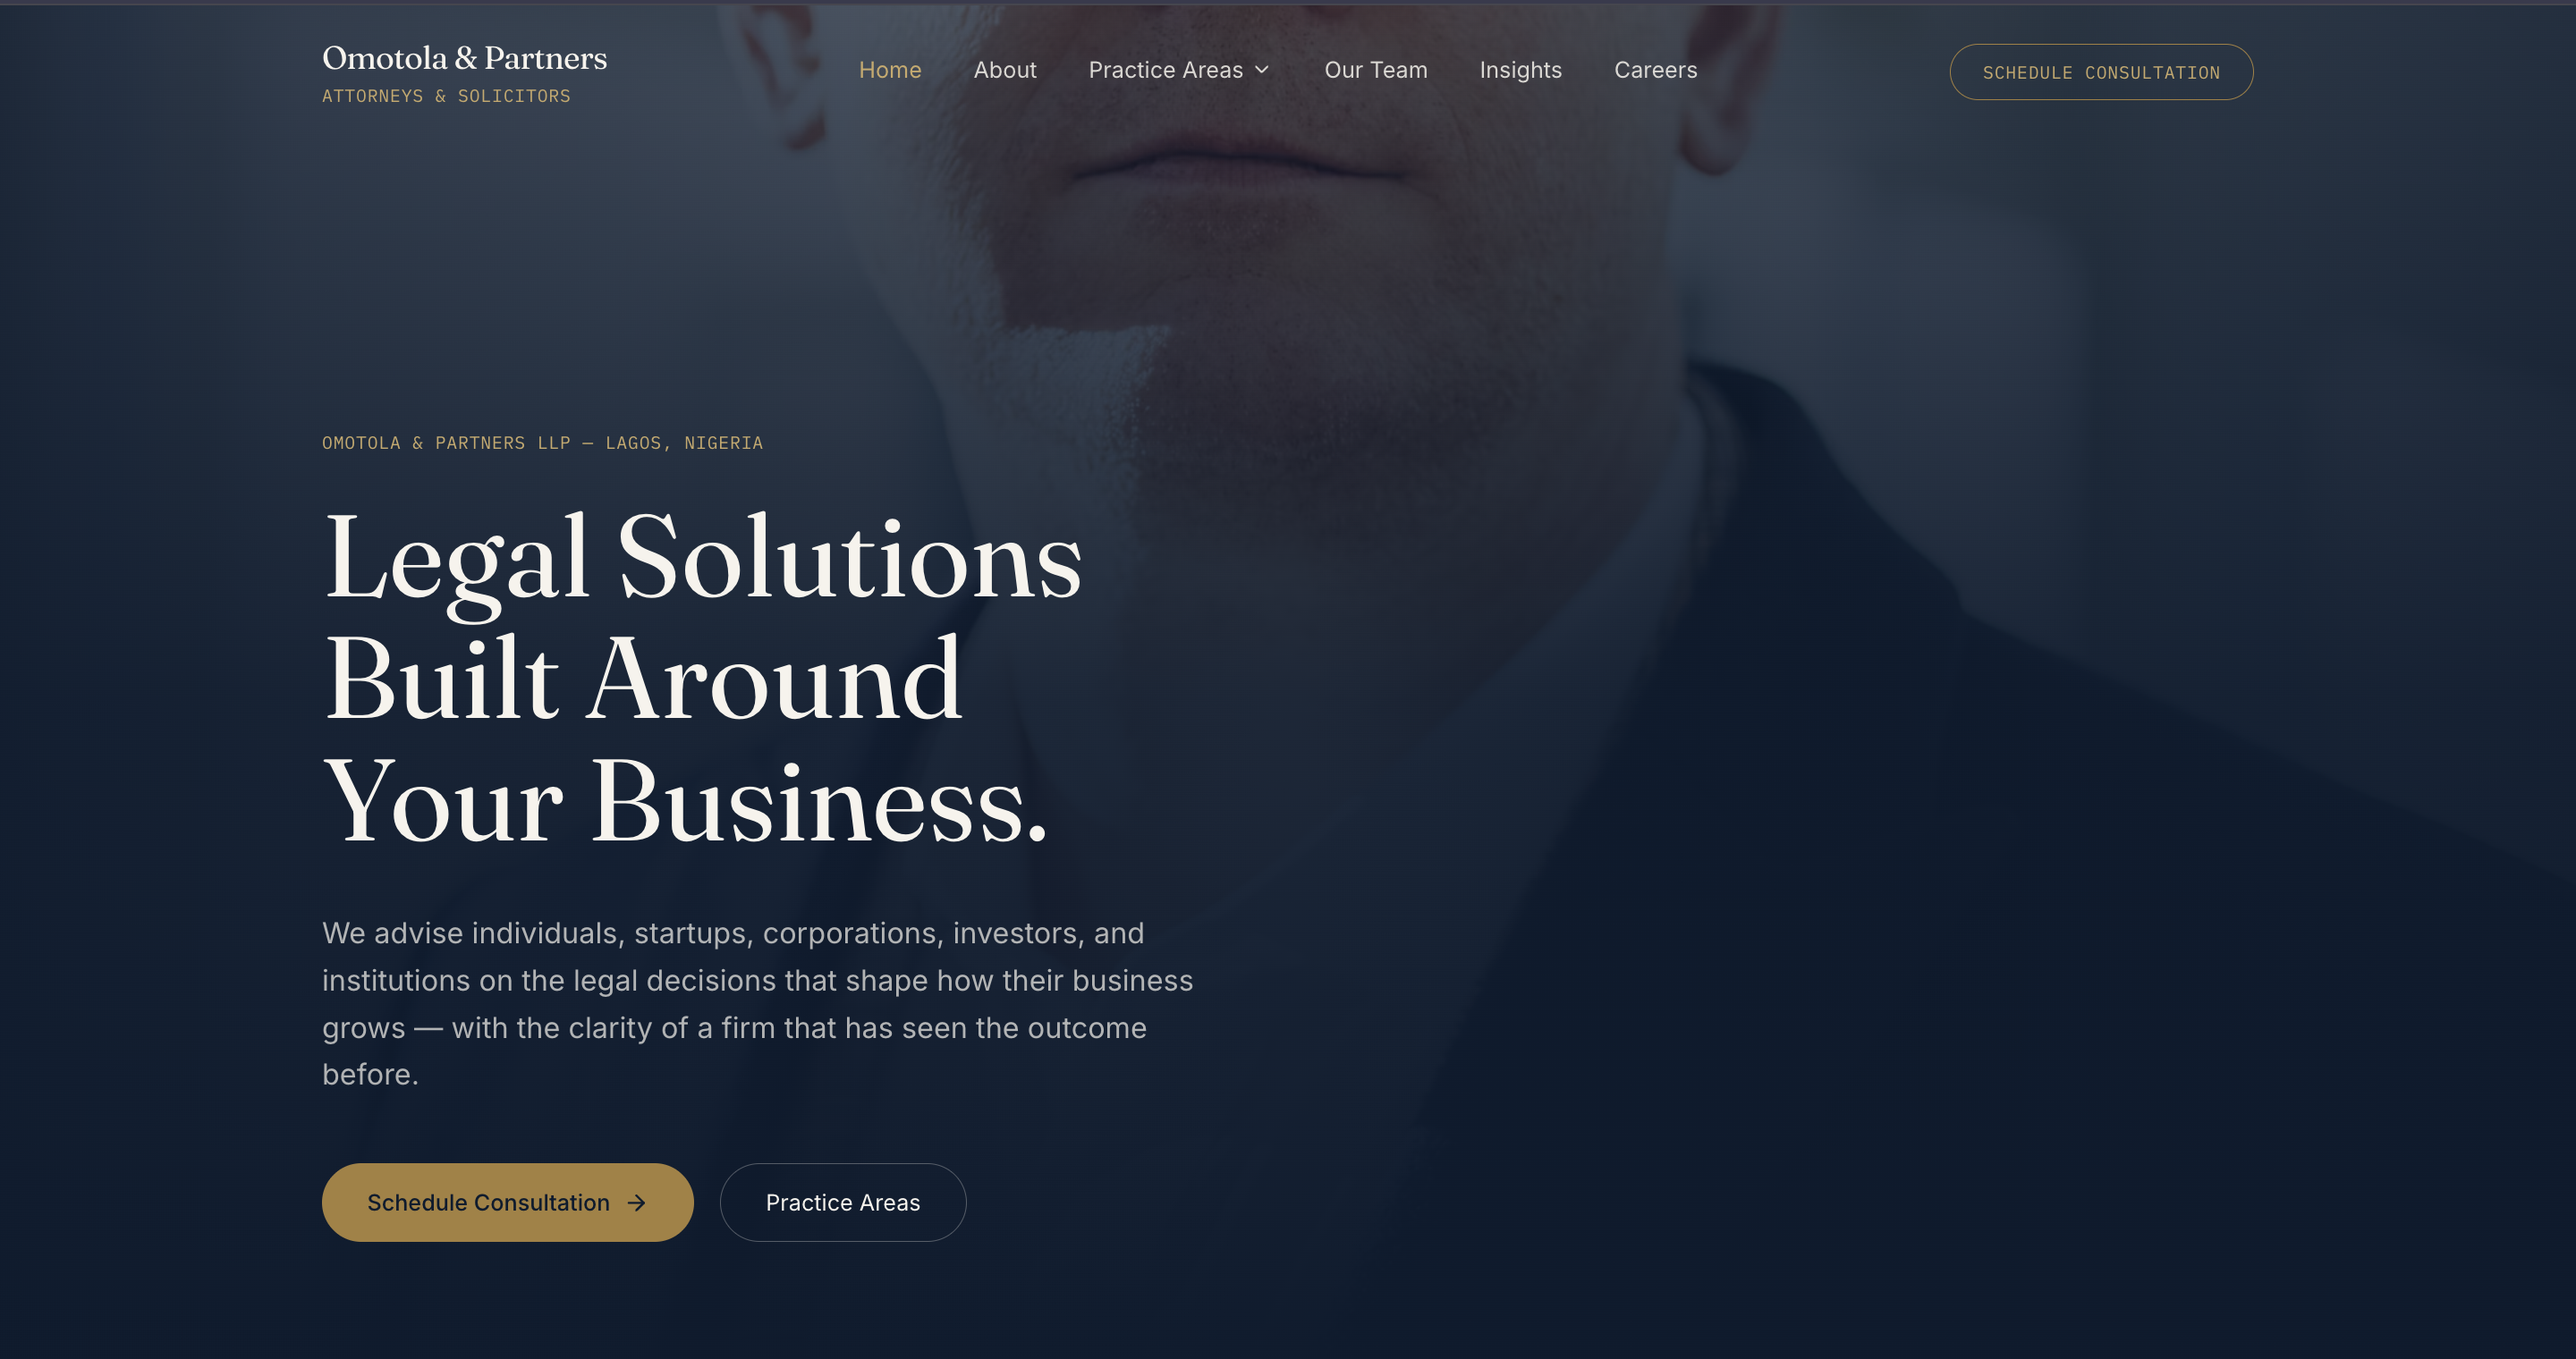
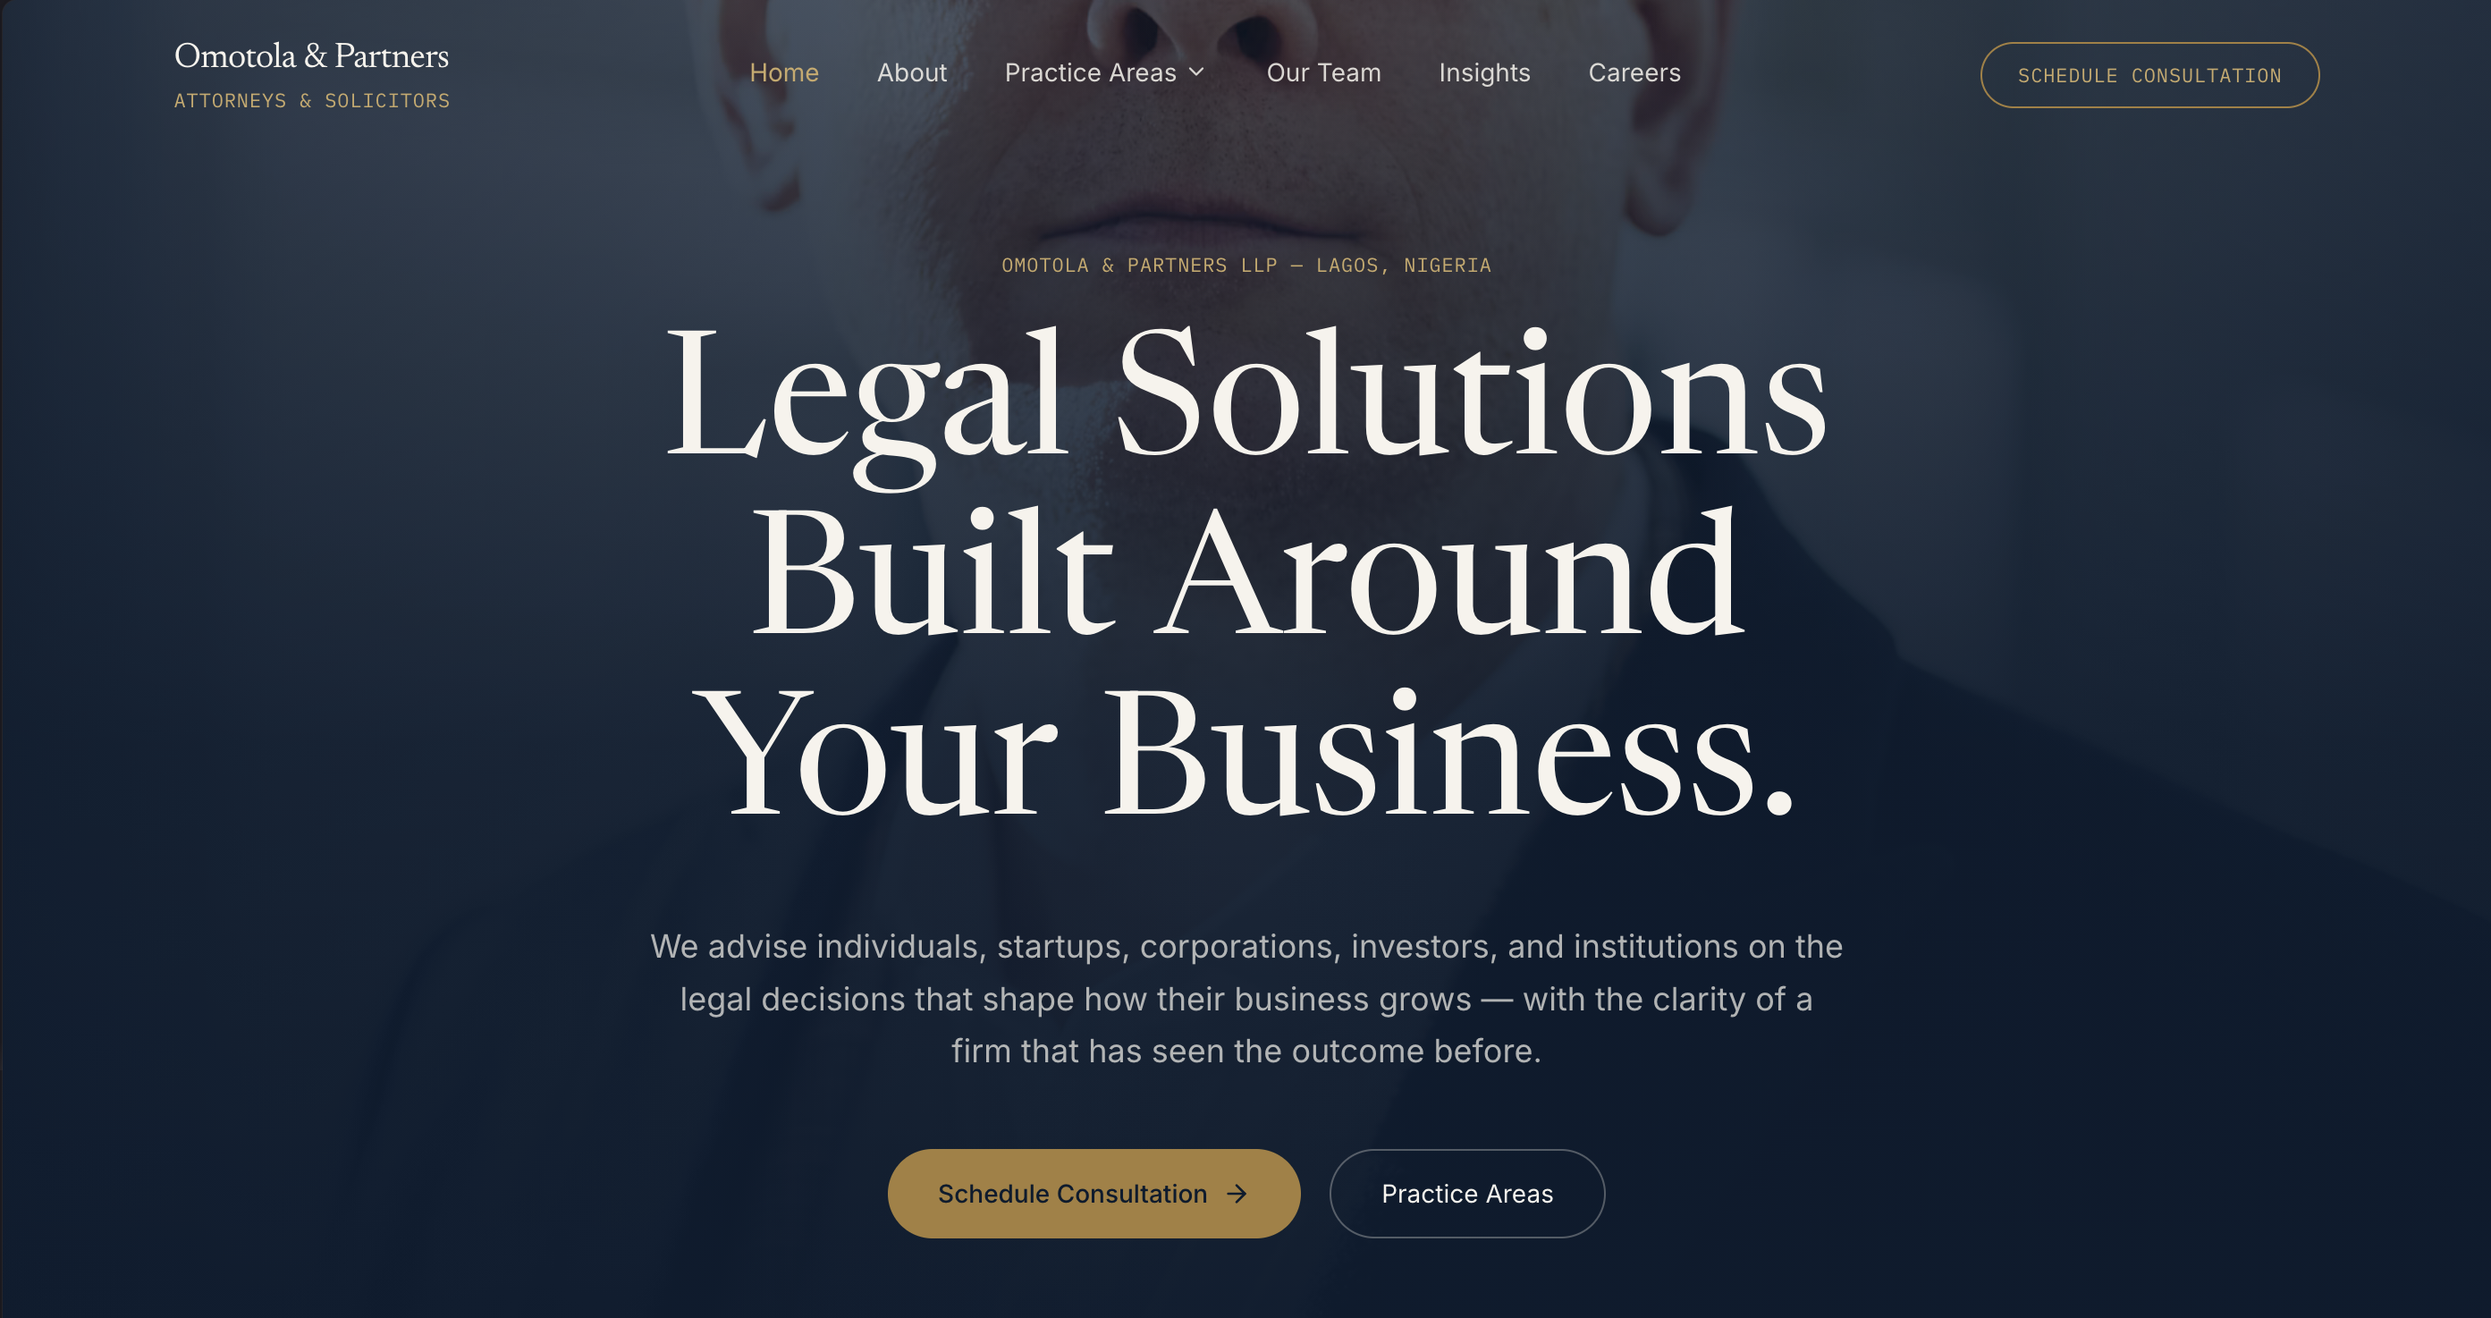
Update technologies for clogistics project: replace Mapbox with Vite

diff --git a/src/data/projects.ts b/src/data/projects.ts
@@ -60,7 +60,7 @@ export const projects: Project[] = [
     thumbnail: clogistics,
     description:
       "A logistics company site with a mock package-tracking flow, built as a speculative pitch for a real courier business.",
-    technologies: ["React", "Tailwind CSS", "Mapbox"],
+    technologies: ["React", "Tailwind CSS", "Vite"],
     liveUrl: "https://cl-logistics-tau.vercel.app/",
     featured: true,
   },
